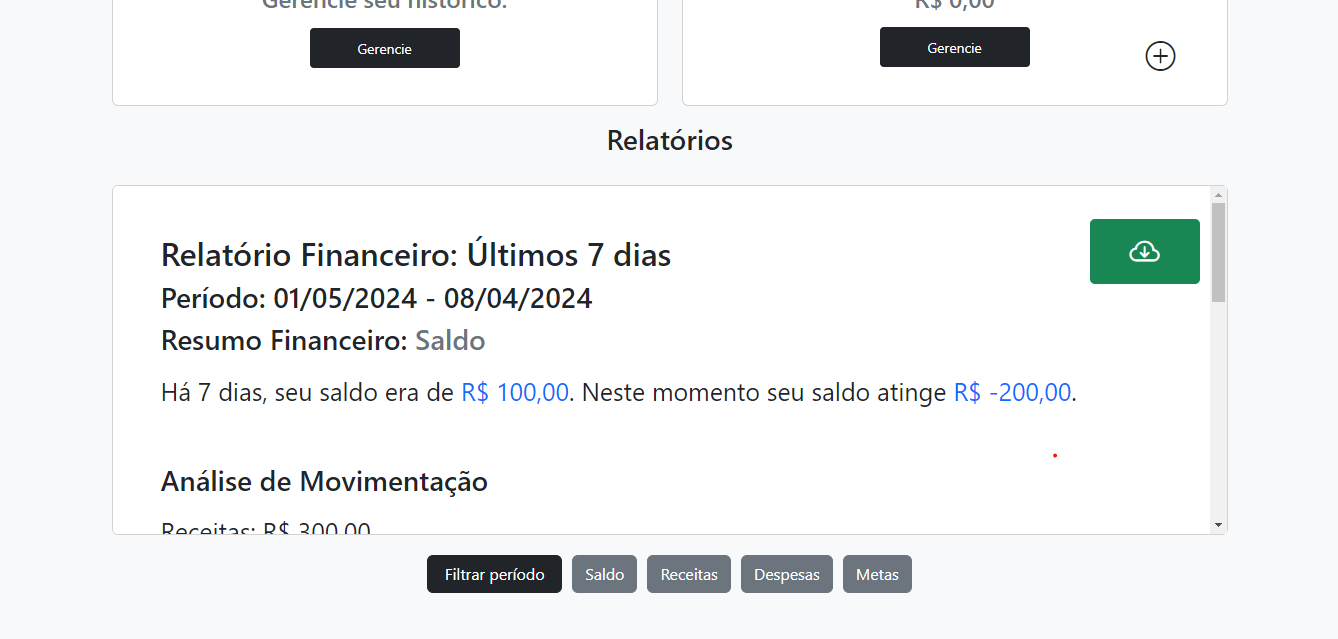
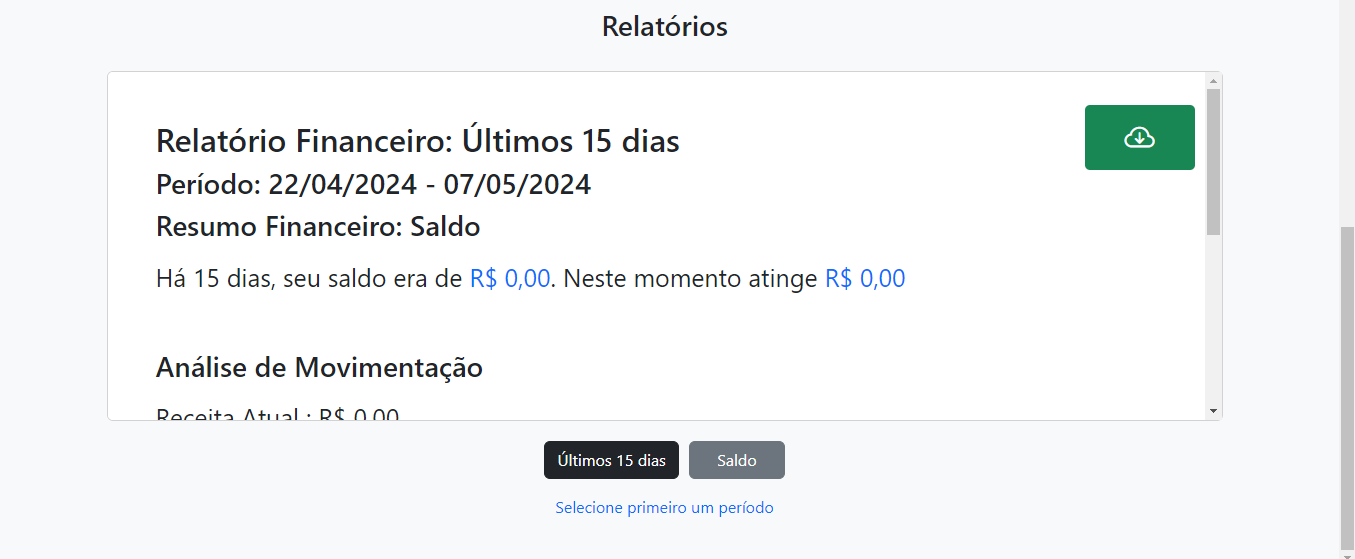
relatorio mudou

diff --git a/src/script/home.js b/src/script/home.js
@@ -213,33 +213,21 @@ window.addEventListener("load", function () {
   meta();
 });
 
-//relatorio// Adiciona evento de clique a todos os botões com classe 'lancamento'
-document.querySelectorAll('.lancamento').forEach(function(button) {
-    button.addEventListener('click', function() {
-        // Verifica se um período foi selecionado
-        if (document.getElementById('periodoRelatorio').value === "") {
-            // Se nenhum período foi selecionado, exibe a mensagem vermelha
-            document.getElementById('periodoMensagem').classList.remove('hide');
-        } else {
-            // Caso contrário, oculta a mensagem
-            document.getElementById('periodoMensagem').classList.add('hide');
-        }
-        // Limpa a classe 'text-primary' de todos os botões
-        limparEstiloBotoes();
-        // Adiciona a classe 'text-primary' apenas ao botão clicado
-        this.classList.add('text-primary');
-        // Exibe os dados do card body apenas se uma opção válida foi selecionada no select
-        exibirDadosCardBody();
-    });
+
+//script do relatorio
+document.querySelectorAll(".lancamento").forEach(function (button) {
+  button.addEventListener("click", function () {
+    if (document.getElementById("periodoRelatorio").value === "") {
+      document.getElementById("periodoMensagem").classList.remove("hide");
+    } else {
+      document.getElementById("periodoMensagem").classList.add("hide");
+    }
+    limparEstiloBotoes();
+    exibirDadosCardBody();
+  });
 });
-
-
-// Função para limpar a classe 'text-primary' de todos os botões
 function limparEstiloBotoes() {
   document.getElementById("lancamento1").classList.remove("text-primary");
-  document.getElementById("lancamento2").classList.remove("text-primary");
-  document.getElementById("lancamento3").classList.remove("text-primary");
-  document.getElementById("lancamento4").classList.remove("text-primary");
 }
 function exibirDadosCardBody() {
   if (document.getElementById("periodoRelatorio").value !== "") {
@@ -250,38 +238,10 @@ function exibirDadosCardBody() {
 }
 document.getElementById("lancamento1").addEventListener("click", function () {
   limparEstiloBotoes();
-  this.classList.add("text-primary");
   exibirDadosCardBody();
   escolhaLancamento("Saldo");
-
 });
 
-document.getElementById("lancamento2").addEventListener("click", function () {
-  limparEstiloBotoes();
-  this.classList.add("text-primary");
-  exibirDadosCardBody();
-  escolhaLancamento("Receita");
-  document.getElementById("receitaRelatorio").classList.add("text-primary");
-});
-
-document.getElementById("lancamento3").addEventListener("click", function () {
-  limparEstiloBotoes();
-  this.classList.add("text-primary");
-  exibirDadosCardBody();
-  escolhaLancamento("Despesa");
-  document.getElementById("despesaRelatorio").classList.add("text-primary");
-});
-
-document.getElementById("lancamento4").addEventListener("click", function () {
-  // Remove a classe 'text-primary' de todos os botões
-  limparEstiloBotoes();
-  // Adiciona a classe 'text-primary' apenas ao botão clicado
-  this.classList.add("text-primary");
-  // Exibe os dados do card body apenas se uma opção válida foi selecionada no select
-  exibirDadosCardBody();
-  escolhaLancamento("Meta");
-  document.getElementById("metaRelatorio").classList.add("text-primary");
-});
 
 function escolhaLancamento(lancamento) {
   document.getElementById("lancamentoEscolhido").innerHTML =
@@ -369,7 +329,7 @@ function relatorio() {
         style: "currency",
         currency: "BRL",
       });
-      
+
       receitaRelatorio.innerHTML = receitaMovimentacao.toLocaleString("pt-BR", {
         style: "currency",
         currency: "BRL",

diff --git a/src/home.html b/src/home.html
@@ -191,9 +191,6 @@
                         <option value="5">Últimos 90 dias</option>
                     </select>
                     <button class="btn btn-secondary" id="lancamento1">Saldo</button>
-                    <button class="btn btn-secondary" id="lancamento2">Receitas</button>
-                    <button class="btn btn-secondary" id="lancamento3">Despesas</button>
-                    <button class="btn btn-secondary" id="lancamento4">Metas</button>
                     <div id="lancamentoEscolhido"></div>
                 </div>
                 <div id="periodoMensagem" class="text-primary mt-3">Selecione primeiro um período</div>
